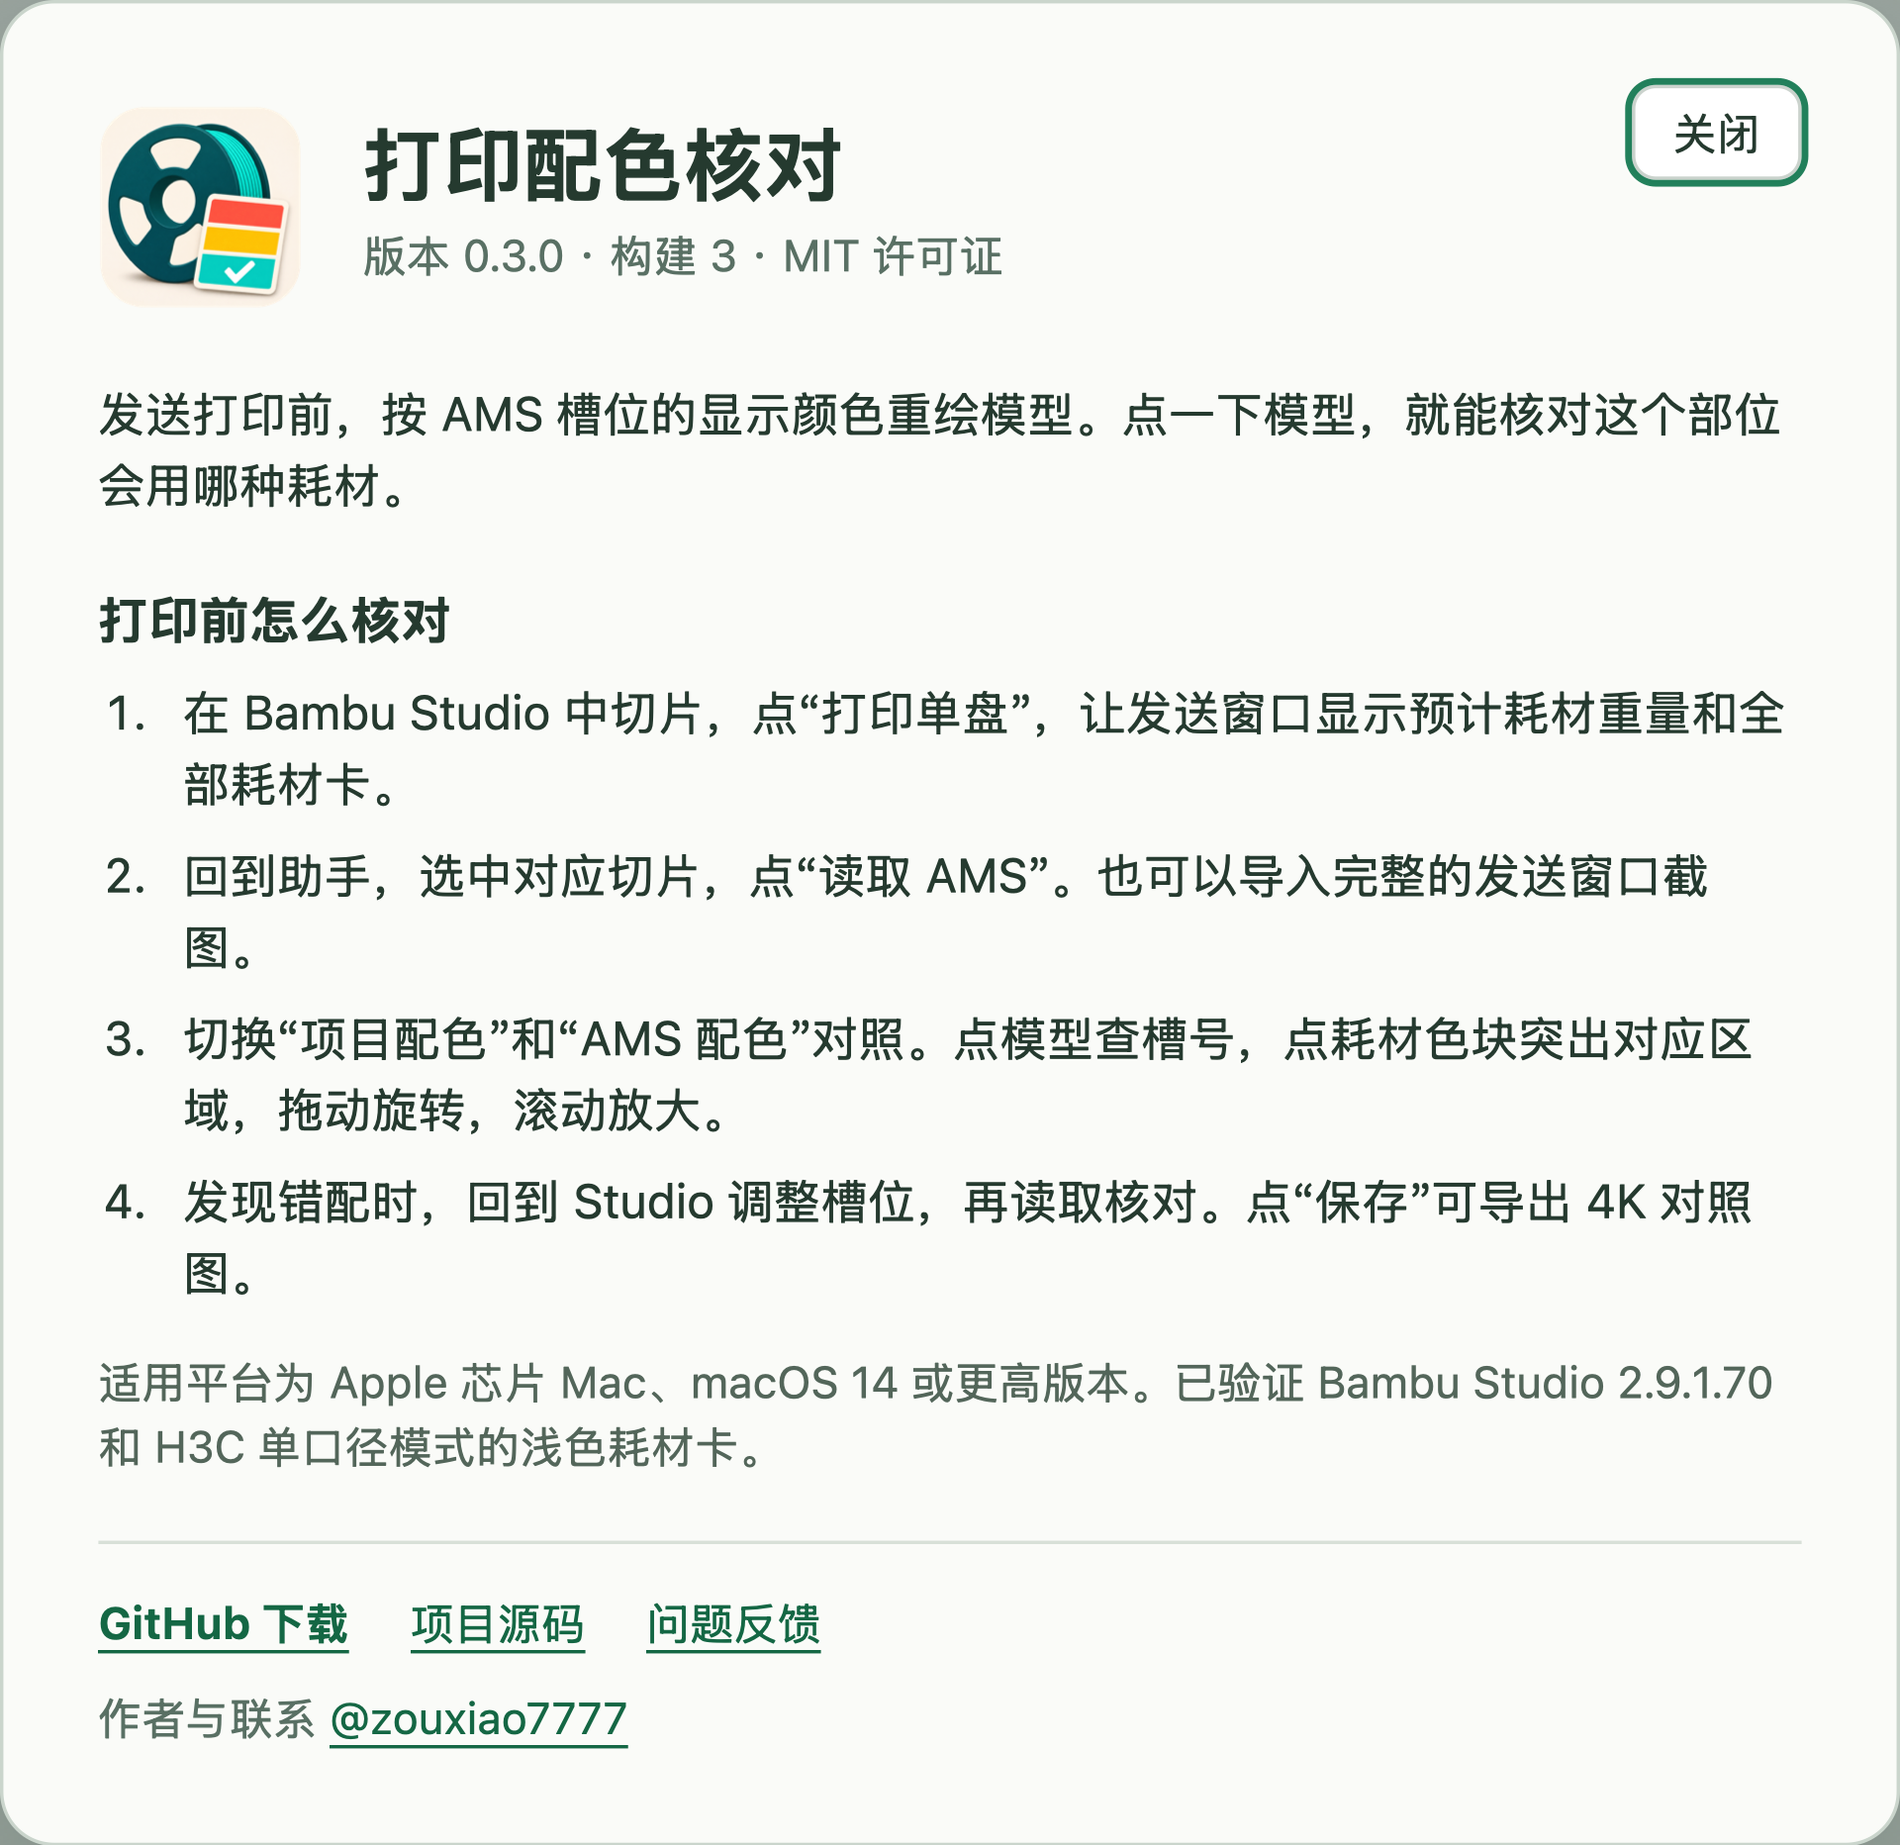
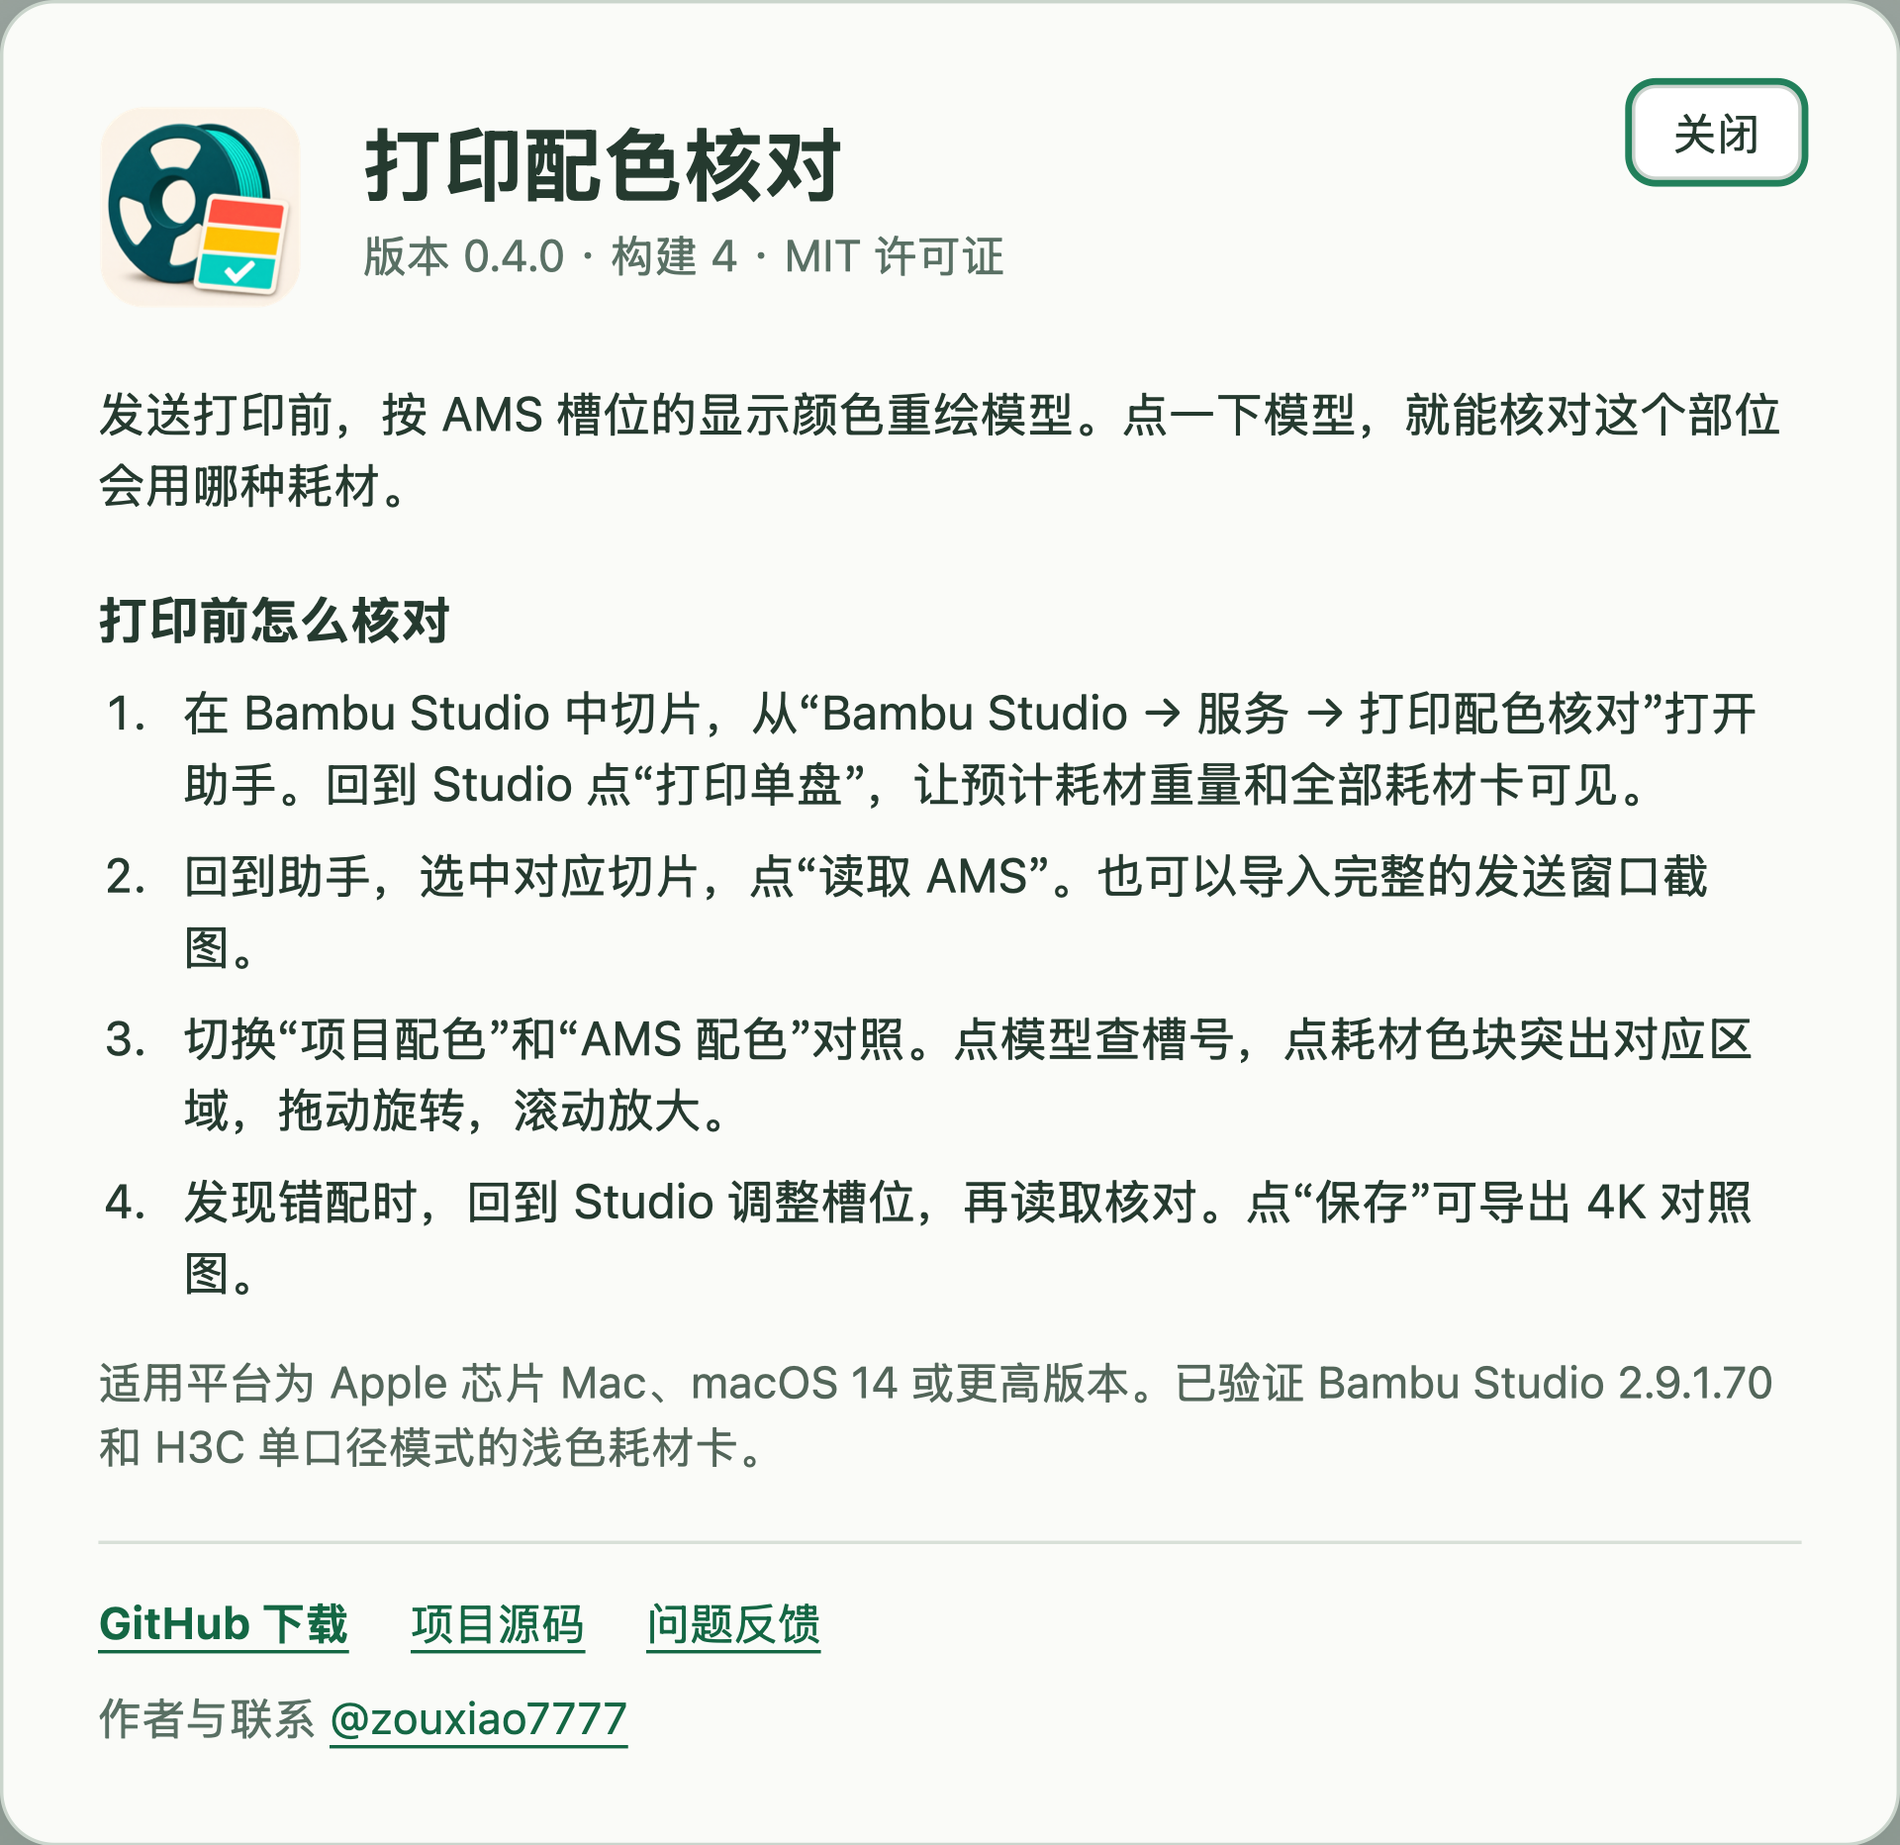
Launch Print Color Check from the Bambu Studio Services menu

diff --git a/Web/language.js b/Web/language.js
@@ -4,7 +4,7 @@ const messages = {
   versionInfo: ['版本 {version} · 构建 {build} · MIT 许可证', 'Version {version} · Build {build} · MIT License'],
   aboutIntro: ['发送打印前，按 AMS 槽位的显示颜色重绘模型。点一下模型，就能核对这个部位会用哪种耗材。', 'See the model in the colors shown for its assigned AMS slots. Click any visible part to check which filament will print it.'],
   howTo: ['打印前怎么核对', 'Check a plate before printing'],
-  stepSlice: ['在 Bambu Studio 中切片，点“打印单盘”，让发送窗口显示预计耗材重量和全部耗材卡。', 'Slice a plate in Bambu Studio and click Print Plate. Keep the estimated weight and all filament cards visible in the send window.'],
+  stepSlice: ['在 Bambu Studio 中切片，从“Bambu Studio → 服务 → 打印配色核对”打开助手。回到 Studio 点“打印单盘”，让预计耗材重量和全部耗材卡可见。', 'Slice a plate, then open Bambu Studio → Services → Print Color Check. Return to Studio and click Print Plate. Keep the estimated weight and all filament cards visible.'],
   stepMap: ['回到助手，选中对应切片，点“读取 AMS”。也可以导入完整的发送窗口截图。', 'In this app, select the matching slice and click Read AMS. You can also import a screenshot of the entire send window.'],
   stepInspect: ['切换“项目配色”和“AMS 配色”对照。点模型查槽号，点耗材色块突出对应区域，拖动旋转，滚动放大。', 'Compare Project Colors with AMS Colors. Click the model to identify a slot or a swatch to highlight its region. Drag to rotate and scroll to zoom.'],
   stepSave: ['发现错配时，回到 Studio 调整槽位，再读取核对。点“保存”可导出 4K 对照图。', 'If a color is wrong, change the slot in Studio and read it again. Click Save to export a 4K comparison.'],

diff --git a/Sources/main.swift b/Sources/main.swift
@@ -93,7 +93,27 @@ final class App:NSObject,NSApplicationDelegate,WKScriptMessageHandler,NSWindowDe
             Task{@MainActor in self.capture(quiet:true)}
         }
         web.load(URLRequest(url:URL(string:"plate://local/index.html")!))
-        window.makeKeyAndOrderFront(nil);NSApp.activate(ignoringOtherApps:true)
+        presentWindow()
+        if exportURL == nil {
+            NSApp.servicesProvider = self
+            NSUpdateDynamicServices()
+        }
+    }
+    private func presentWindow() {
+        NSApp.unhide(nil)
+        if window.isMiniaturized { window.deminiaturize(nil) }
+        window.makeKeyAndOrderFront(nil)
+        NSApp.activate(ignoringOtherApps: true)
+    }
+    @objc(showPrintColorCheck:userData:error:)
+    func showPrintColorCheck(_ pasteboard: NSPasteboard, userData: String?,
+                             error: AutoreleasingUnsafeMutablePointer<NSString?>?) {
+        if ready { call("closeAbout", NSNull()) }
+        presentWindow()
+    }
+    func applicationShouldHandleReopen(_ sender: NSApplication, hasVisibleWindows flag: Bool) -> Bool {
+        if window != nil { presentWindow() }
+        return false
     }
     func windowWillClose(_ notification:Notification){NSApp.terminate(nil)}
     func applicationWillTerminate(_ n:Notification){try? fm.removeItem(at:root)}

diff --git a/Web/app.js b/Web/app.js
@@ -138,5 +138,8 @@ function openAbout() {
   const dialog=by('aboutPage');
   if (!dialog.open) dialog.showModal();
 }
+function closeAbout() {
+  by('aboutPage').close();
+}
 by('aboutButton').onclick=openAbout;
 localizeControls();show();post('ready');

diff --git a/RELEASE_NOTES.md b/RELEASE_NOTES.md
@@ -1,19 +1,15 @@
 ## 简体中文
 
-首个公开测试版。用 AMS 槽位登记的颜色重绘切片外表面，在发送任务前检查每种耗材会打印在哪个部位。支持旋转、局部放大、按耗材突出显示和 4K 导图。
+在 Bambu Studio 的菜单栏选择 **Bambu Studio → 服务 → 打印配色核对**，即可打开 3D 配色预览。助手已经打开时，这个命令会调回原窗口，保留视角和选中的耗材。中英文 README 收录了熊猫吃西瓜的实机截图，可以放大查看舌头、瓜皮和对应的 AMS 槽位。
 
-**下载 `BambuPrintColorCheck-0.3.0-macOS-arm64.zip`**，解压后将 `BambuPrintColorCheck.app` 拖入“应用程序”。适用于 Apple 芯片 Mac，最低系统要求为 macOS 14。附件含中英文安装说明和 `SHA256SUMS.txt` 校验清单。
+下载 **BambuPrintColorCheck-0.4.0-macOS-arm64.zip**。退出旧版助手，解压，将 App 拖入“应用程序”并打开一次。菜单入口会注册到官方版 Bambu Studio。适用于 Apple 芯片 Mac 和 macOS 14 或更高版本。测试包使用本地签名，尚未获 Apple 公证。
 
-新增双语“关于”页，可从工具栏或应用菜单打开，查看使用步骤、版本、下载、源码和作者联系方式。已在 macOS 26.5、Bambu Studio 2.9.1.70 和 H3C 单口径模式的浅色耗材卡环境验证。应用使用本地签名，尚未获 Apple Developer ID 签名或公证。
-
-[中文说明](https://github.com/zouxiao7777/BambuPrintColorCheck/blob/v0.3.0/README.md) · [问题反馈](https://github.com/zouxiao7777/BambuPrintColorCheck/issues) · [联系作者](https://github.com/zouxiao7777)
+[中文使用说明](https://github.com/zouxiao7777/BambuPrintColorCheck/blob/v0.4.0/README.md) · [问题反馈](https://github.com/zouxiao7777/BambuPrintColorCheck/issues) · [联系作者](https://github.com/zouxiao7777)
 
 ## English
 
-First public beta. Inspect the exterior of a sliced model in the colors registered for its assigned AMS slots before sending a print. Rotate the model, zoom into a detail, highlight a filament’s region, or export a 4K comparison.
+Choose **Bambu Studio → Services → Print Color Check** from the Mac menu bar to open the 3D preview. If the helper is already running, the command brings back the same window with its camera angle and filament selection. Both READMEs include the Chinese and English panda screenshots so you can inspect the tongue, watermelon rind, and corresponding AMS slots at full size.
 
-**Download `BambuPrintColorCheck-0.3.0-macOS-arm64.zip`**, extract it and drag `BambuPrintColorCheck.app` to Applications. Requires an Apple silicon Mac running macOS 14 or later. Installation guides in both languages and SHA-256 checksums are attached.
+Download **BambuPrintColorCheck-0.4.0-macOS-arm64.zip**. Quit the old helper, extract the ZIP, move the app to Applications and open it once to register the command in the official Bambu Studio app. Requires an Apple silicon Mac running macOS 14 or later. This beta is ad-hoc signed and has not been notarized by Apple.
 
-The bilingual About page is available from the toolbar and the application menu. It includes instructions, version information, downloads, source code and author contact. Tested on macOS 26.5 with Bambu Studio 2.9.1.70 and H3C single-nozzle-diameter mode using light-mode filament cards. The app is ad-hoc signed, without Developer ID signing or Apple notarization.
-
-[English guide](https://github.com/zouxiao7777/BambuPrintColorCheck/blob/v0.3.0/README.en.md) · [Issue tracker](https://github.com/zouxiao7777/BambuPrintColorCheck/issues) · [Contact the author](https://github.com/zouxiao7777)
+[English guide](https://github.com/zouxiao7777/BambuPrintColorCheck/blob/v0.4.0/README.en.md) · [Issue tracker](https://github.com/zouxiao7777/BambuPrintColorCheck/issues) · [Contact the author](https://github.com/zouxiao7777)

diff --git a/README.en.md b/README.en.md
@@ -12,13 +12,23 @@ A standalone Mac companion for Bambu Studio. It reads the selected plate’s sli
 
 Suppose you painted a panda’s tongue pink, then assigned that filament to a slot holding black filament. The project preview still shows pink. Switch to AMS Colors and zoom in on the mouth to see the tongue rendered in the slot color. If several project filaments share one slot, click each swatch to highlight the region it controls.
 
+![English AMS Colors view showing the panda’s pink tongue and the assigned slot swatches](Docs/PrintColorCheck-English.png)
+
+<details><summary>View the Simplified Chinese screenshot</summary>
+
+![Chinese print preview with project filaments mapped to AMS slots](Docs/PrintColorCheck-Chinese.png)
+
+</details>
+
 ## Install and check a plate
 
-1. Download the macOS arm64 ZIP from Releases. Extract it and drag `BambuPrintColorCheck.app` to Applications. The app supports English and Simplified Chinese and remembers your selection.
-2. Slice a plate in Bambu Studio and click Print Plate. Keep the estimated weight and all filament cards visible in the send window. Select the matching project and slice in the helper.
+1. Download the macOS arm64 ZIP from Releases. Quit any older copy of the helper. Extract the ZIP, drag `BambuPrintColorCheck.app` to Applications, and open it once.
+2. Slice a plate and choose **Bambu Studio → Services → Print Color Check** from the macOS menu bar. The first click launches the helper. Later clicks bring the same preview window forward. Return to Studio and click Print Plate. Keep the estimated weight and all filament cards visible, then select the matching project and slice in the helper.
 3. Click **Read AMS**. With macOS Screen Recording access, the helper reads the selected Studio process’s print window and rechecks it about every four seconds while it is open. You can also import a screenshot of the entire window. Read or import again after changing a slot.
 4. Switch between **Project Colors** and **AMS Colors** with the same camera angle. Click the model to identify its filament and slot. Click a swatch to highlight the exterior it prints, then click the label at the top left to zoom there. Drag to rotate, scroll or pinch to zoom, and Shift-drag to pan.
 5. Correct a mismatch in Studio and verify it before sending. Save a 4K side-by-side comparison or an AMS-only image. Open **About** in the toolbar or the macOS application menu for instructions, version information, downloads, and contact details.
+
+The menu label follows the macOS Services language. You can change the helper’s language separately in its toolbar. If the command is missing, open **Bambu Studio → Services → Services Settings…** and enable **Print Color Check** under **General**.
 
 ![About page in English](Docs/About-English.png)
 

diff --git a/README.md b/README.md
@@ -12,13 +12,23 @@
 
 例如，你把熊猫的舌头涂成粉色，但在发送窗口里给这款粉色耗材选了装黑料的槽。工程预览里的舌头仍是粉色。切到助手的“AMS 配色”，放大嘴部，就能看到它按当前映射会显示为黑色。如果几种工程色都被映射到同一槽，点击各自的色块即可分别检查它们负责的区域。
 
+![中文版：在 AMS 配色视图核对熊猫的粉色舌头和西瓜](Docs/PrintColorCheck-Chinese.png)
+
+<details><summary>查看英文界面截图</summary>
+
+![英文版：模型预览和工程耗材到 AMS 槽位的映射](Docs/PrintColorCheck-English.png)
+
+</details>
+
 ## 安装与使用
 
-1. 下载 Release 中的 macOS arm64 ZIP，解压并把 `BambuPrintColorCheck.app` 拖入“应用程序”。应用支持简体中文和 English，并记住上次的语言选择。
-2. 在 Bambu Studio 中切片，点“打印单盘”，保持发送窗口里的预计耗材克重和全部耗材卡可见。在助手顶部选中相同的工程和切片。
+1. 下载 Release 中的 macOS arm64 ZIP，解压并把 `BambuPrintColorCheck.app` 拖入“应用程序”，打开一次。升级前先退出旧版助手。
+2. 在 Bambu Studio 中切片，点屏幕顶部的 **Bambu Studio → 服务 → 打印配色核对**。第一次点击会启动助手，再次点击会调回原来的预览窗口。回到 Studio 点“打印单盘”，保持预计耗材克重和全部耗材卡可见，然后在助手顶部选中对应的工程和切片。
 3. 点“读取 AMS”。授予 macOS 屏幕录制权限后，助手会读取所选 Studio 进程的发送窗口，窗口打开期间约每四秒复查。也可以导入该窗口的完整截图。截图反映截取时的映射，改槽后需重新读取或导入新图。
 4. 切换“项目配色”和“AMS 配色”，在同一视角对照。点模型查耗材与槽号，点色块突出它负责的外表面，再点左上角的耗材标签放大。拖动旋转，滚动或捏合缩放，Shift 拖动平移。
 5. 发现错配后回 Studio 改槽，复查后再发送。助手可保存 4K 对照图或单幅槽位配色图。右上角的“关于”和 macOS 应用菜单都能打开用法、版本、下载和联系方式。
+
+菜单名称跟随 macOS 的服务菜单语言。助手界面可在右上角单独切换中英文。如果找不到入口，打开“Bambu Studio → 服务 → 服务设置…”，在“通用”下勾选“打印配色核对”。
 
 ![中文版应用关于页](Docs/About-Chinese.png)
 
